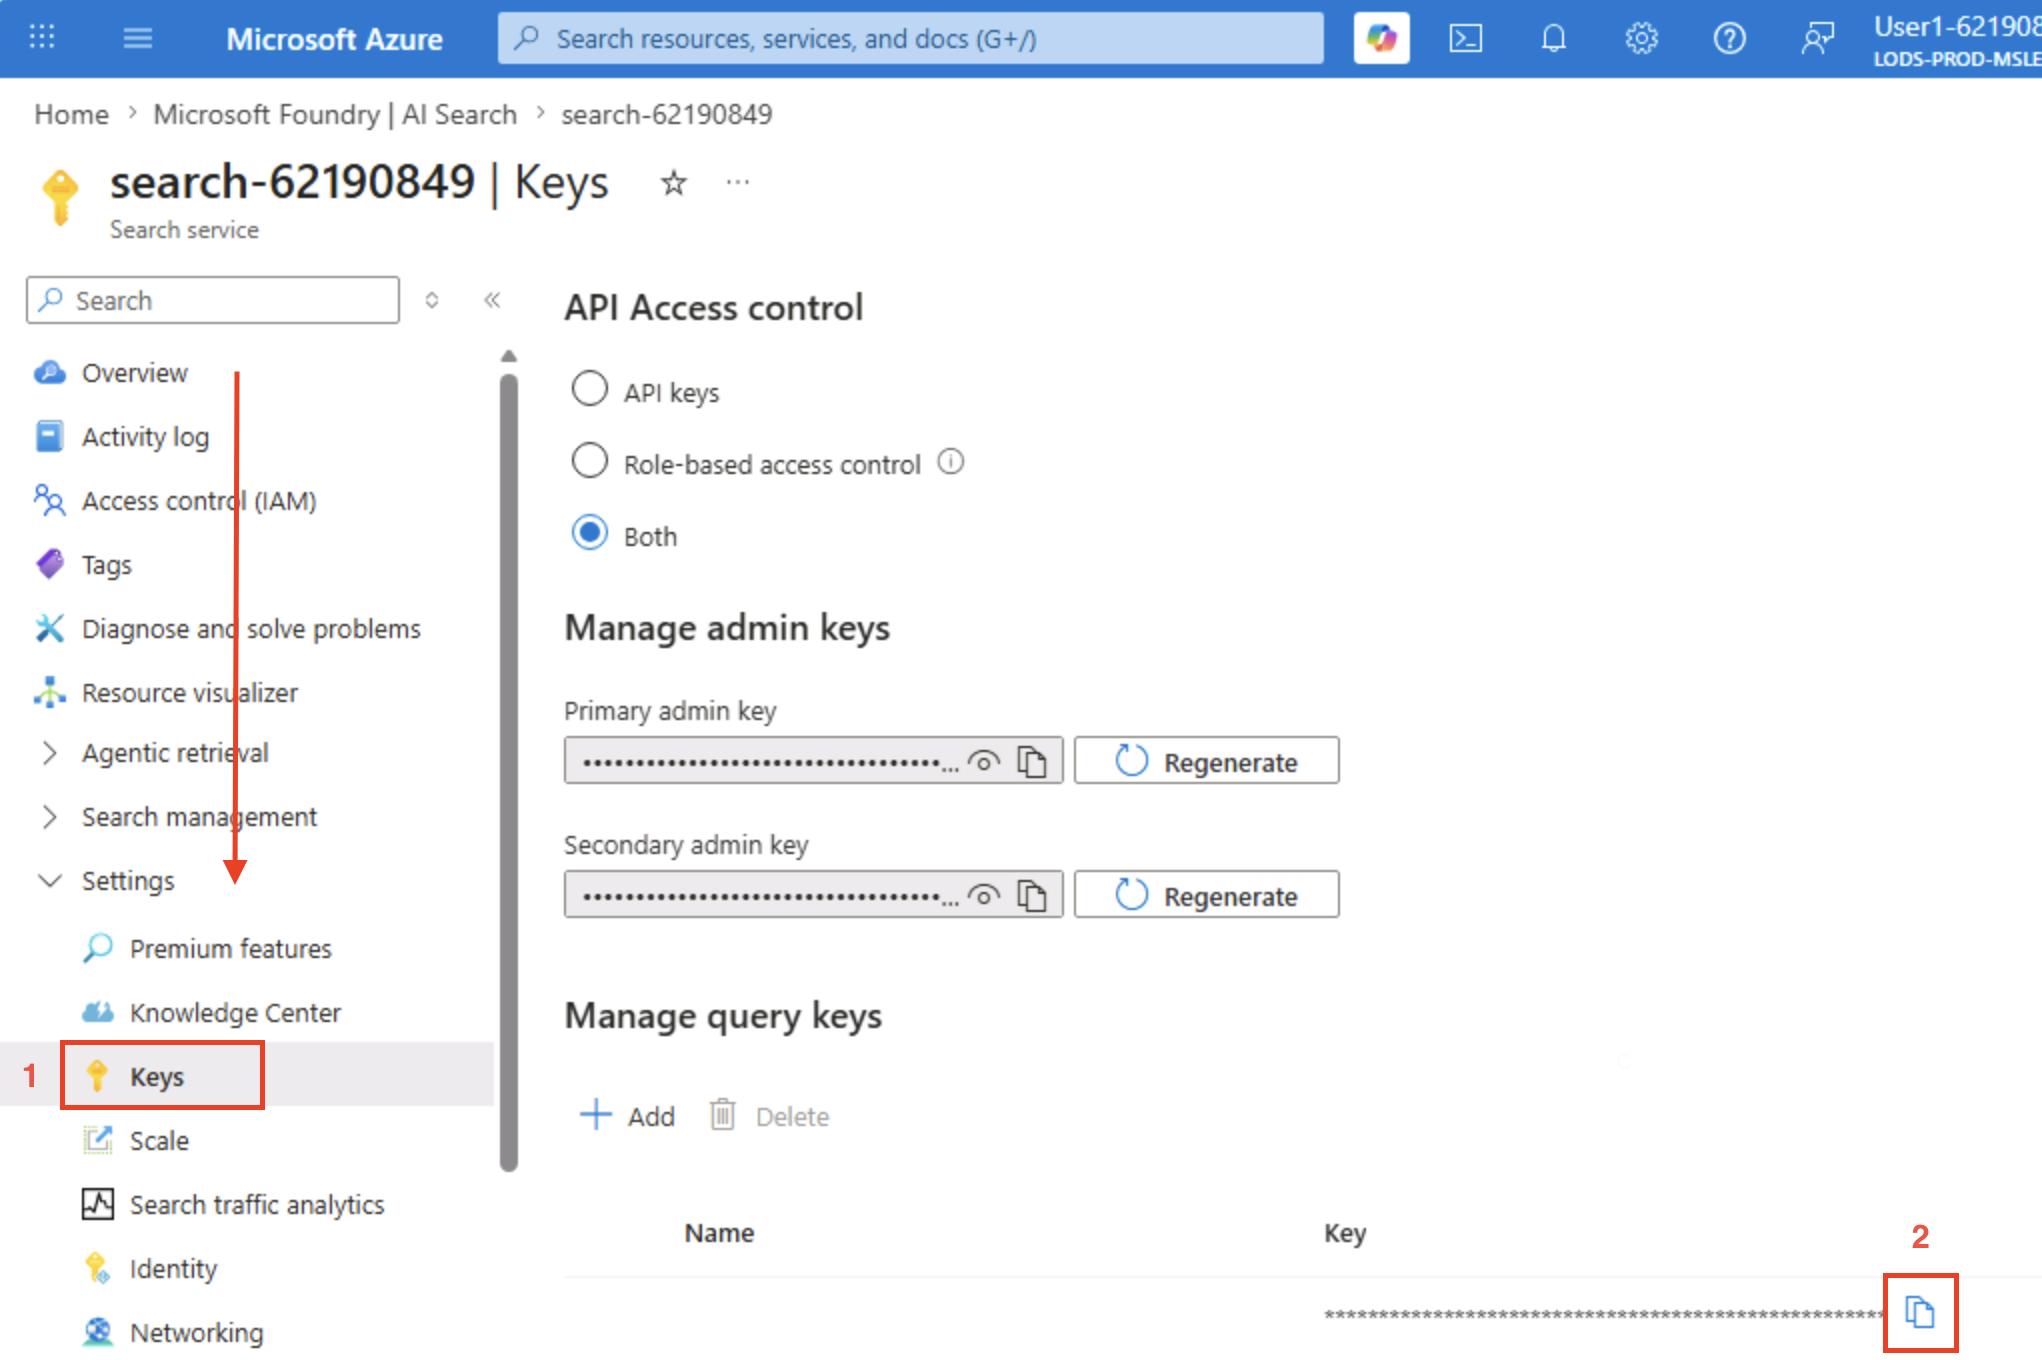
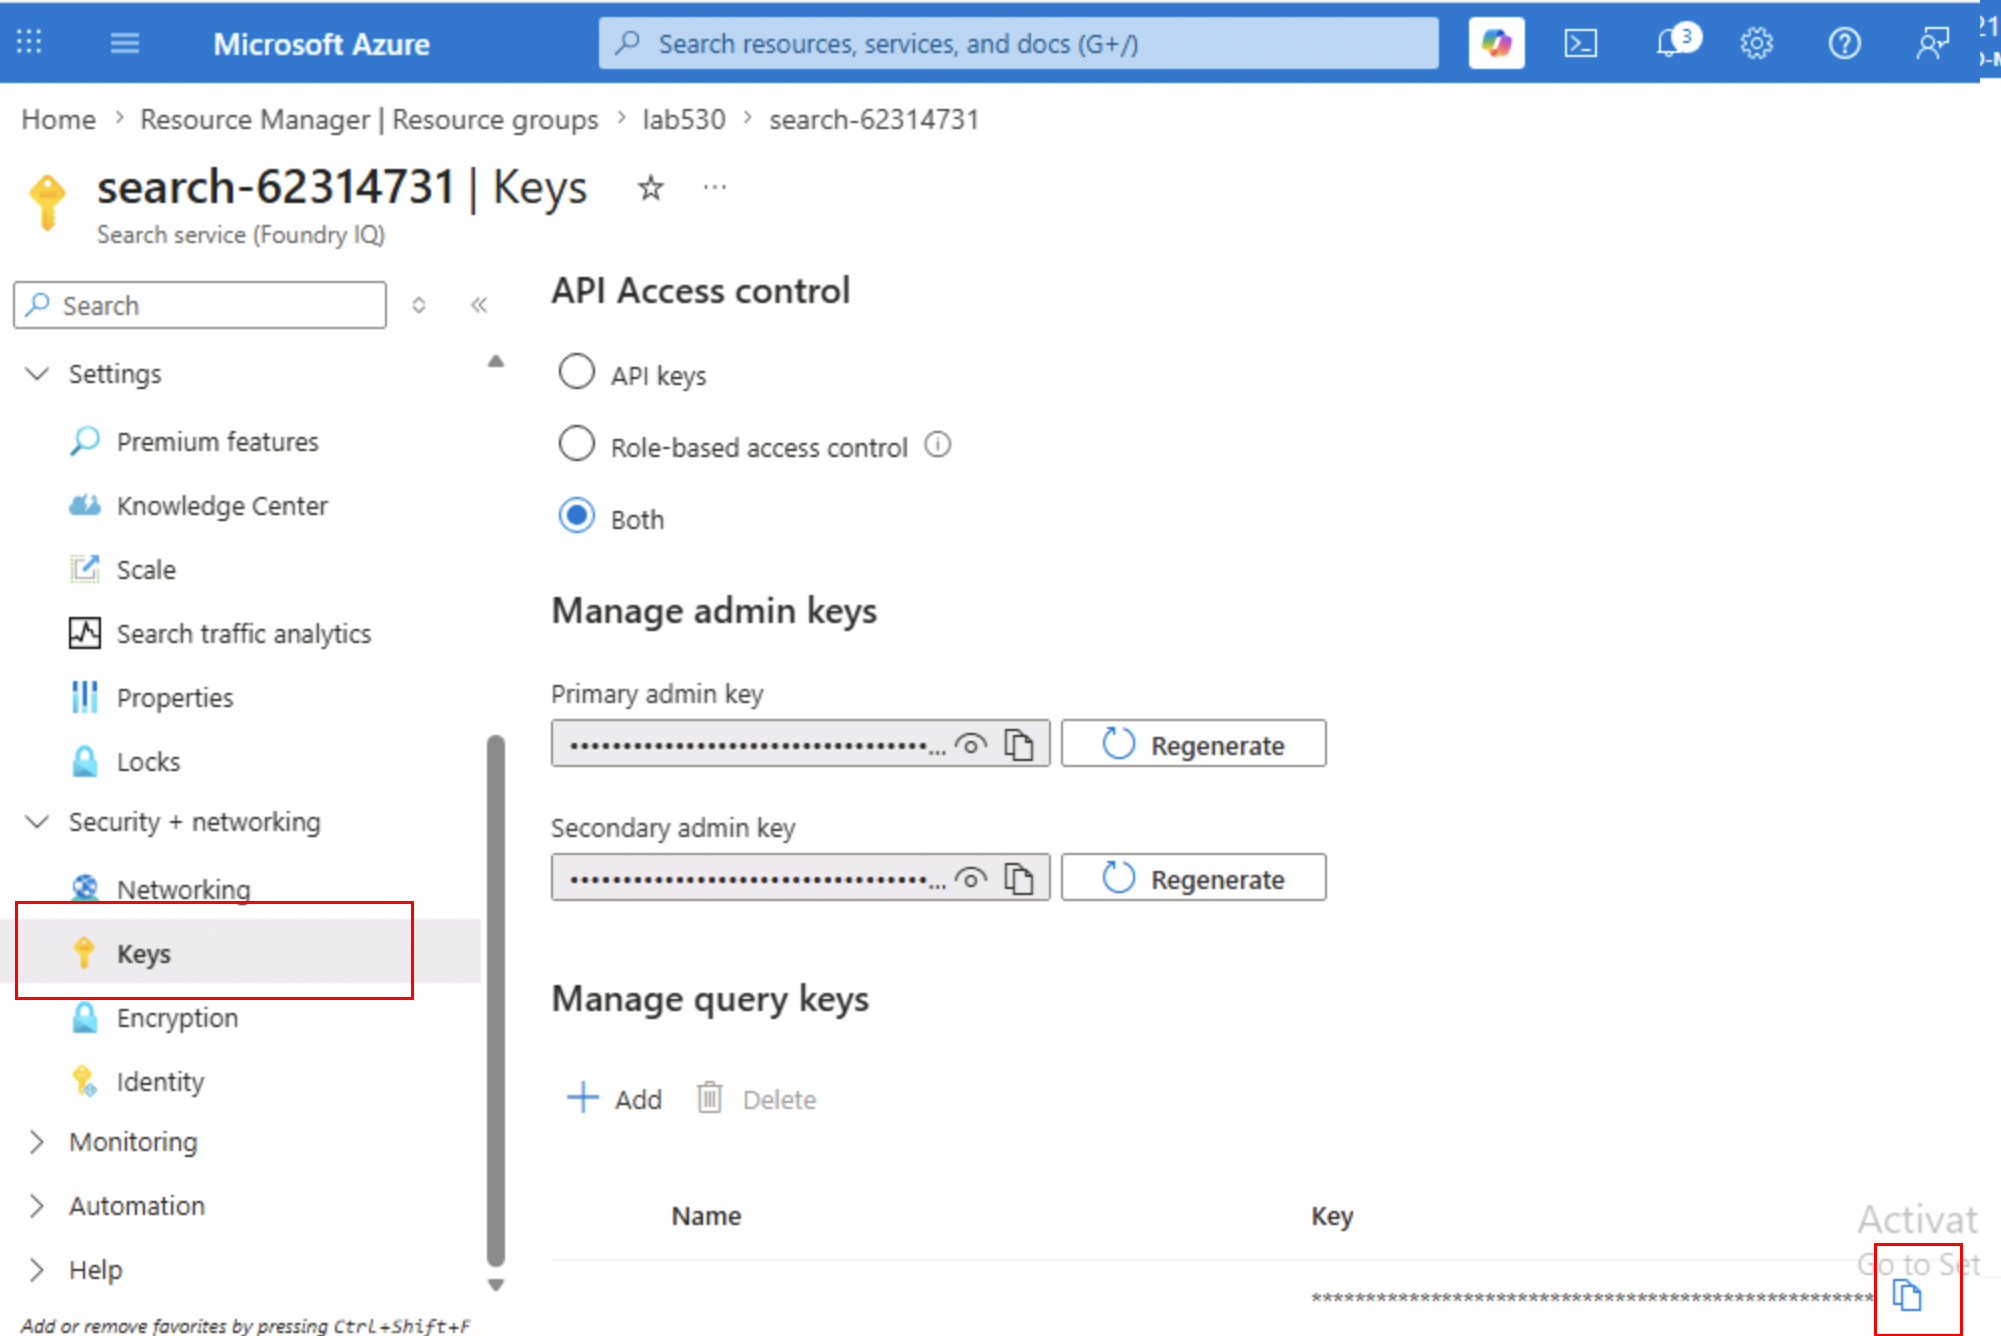
Sync workshop from GlobalAICommunity/lost-in-workshop-v2@26fe38194aed42b9b84b95471f10c640b9966736

diff --git a/07_test_the_city_guide_agent.md b/07_test_the_city_guide_agent.md
@@ -37,9 +37,8 @@ There should only be one AI Search resource available, click on it.
 8. For **Storage account**, select the storage account from the dropdown. There
    should only be one option.
 9. For **Blob Container**, select **city-guide**.
-10. In the **Content extraction** section, set **Mode** to **Standard**.
-11. Select the **Microsoft Foundry resource**.
-12. Select **Authenticate using managed identity**.
+10. In the **Content extraction** section, set **Mode** to **Minimal**.
+11. Select **Authenticate using managed identity**.
 13. For **Managed identity type**, keep **System-assigned** selected.
 14. Under **Enable text vectorization**, select **Add vectorizer**.
 15. For the vectorizer kind, select **Microsoft Foundry**.
@@ -91,7 +90,7 @@ After the knowledge base is saved, collect the Azure AI Search values for
 2. Open **Overview** and copy the **Url** value. This is the value for
 	**AZURE_SEARCH_ENDPOINT**.
 	![AI Search Endpoint Location](./assets/search-endpoint.png)
-3. Open **Settings > Keys** and copy one of the **Query keys** at the bottom section.
+3. Open **Security + Networking > Keys** and copy one of the **Query keys** at the bottom section.
     Make sure it is a **Query** and not an **Admin** key. 
 	This is the value for **AZURE_SEARCH_KEY**.
 	![AI Search Keys Location](./assets/search-keys.png)